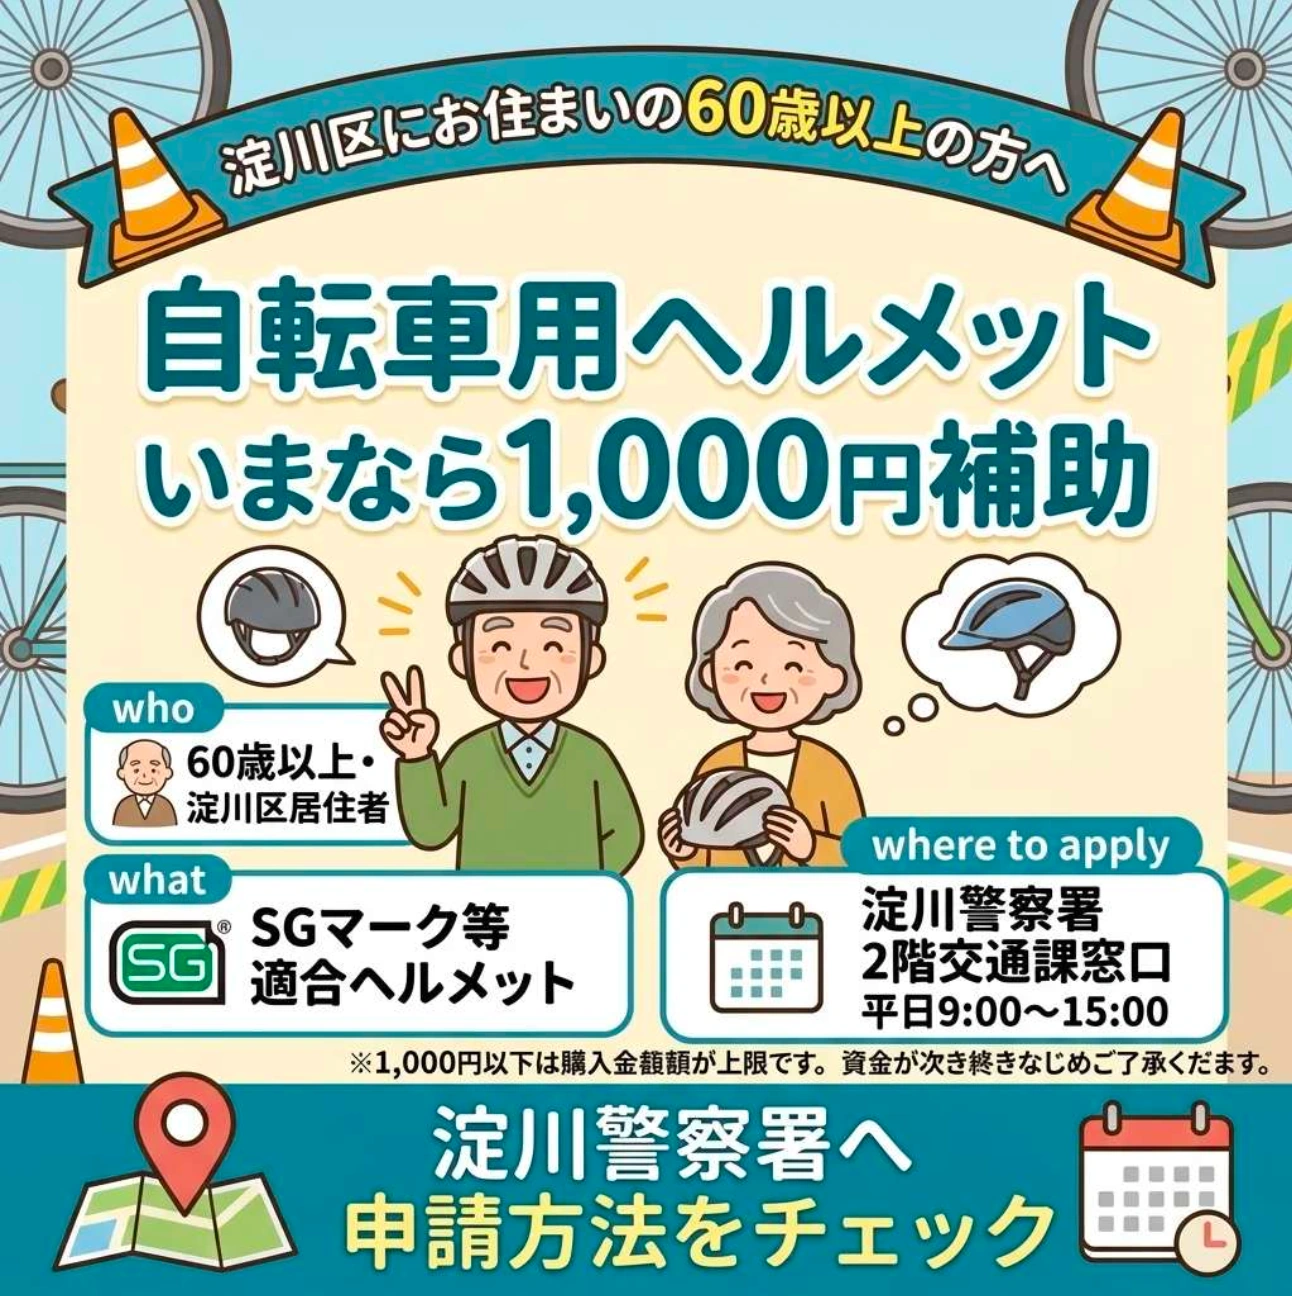
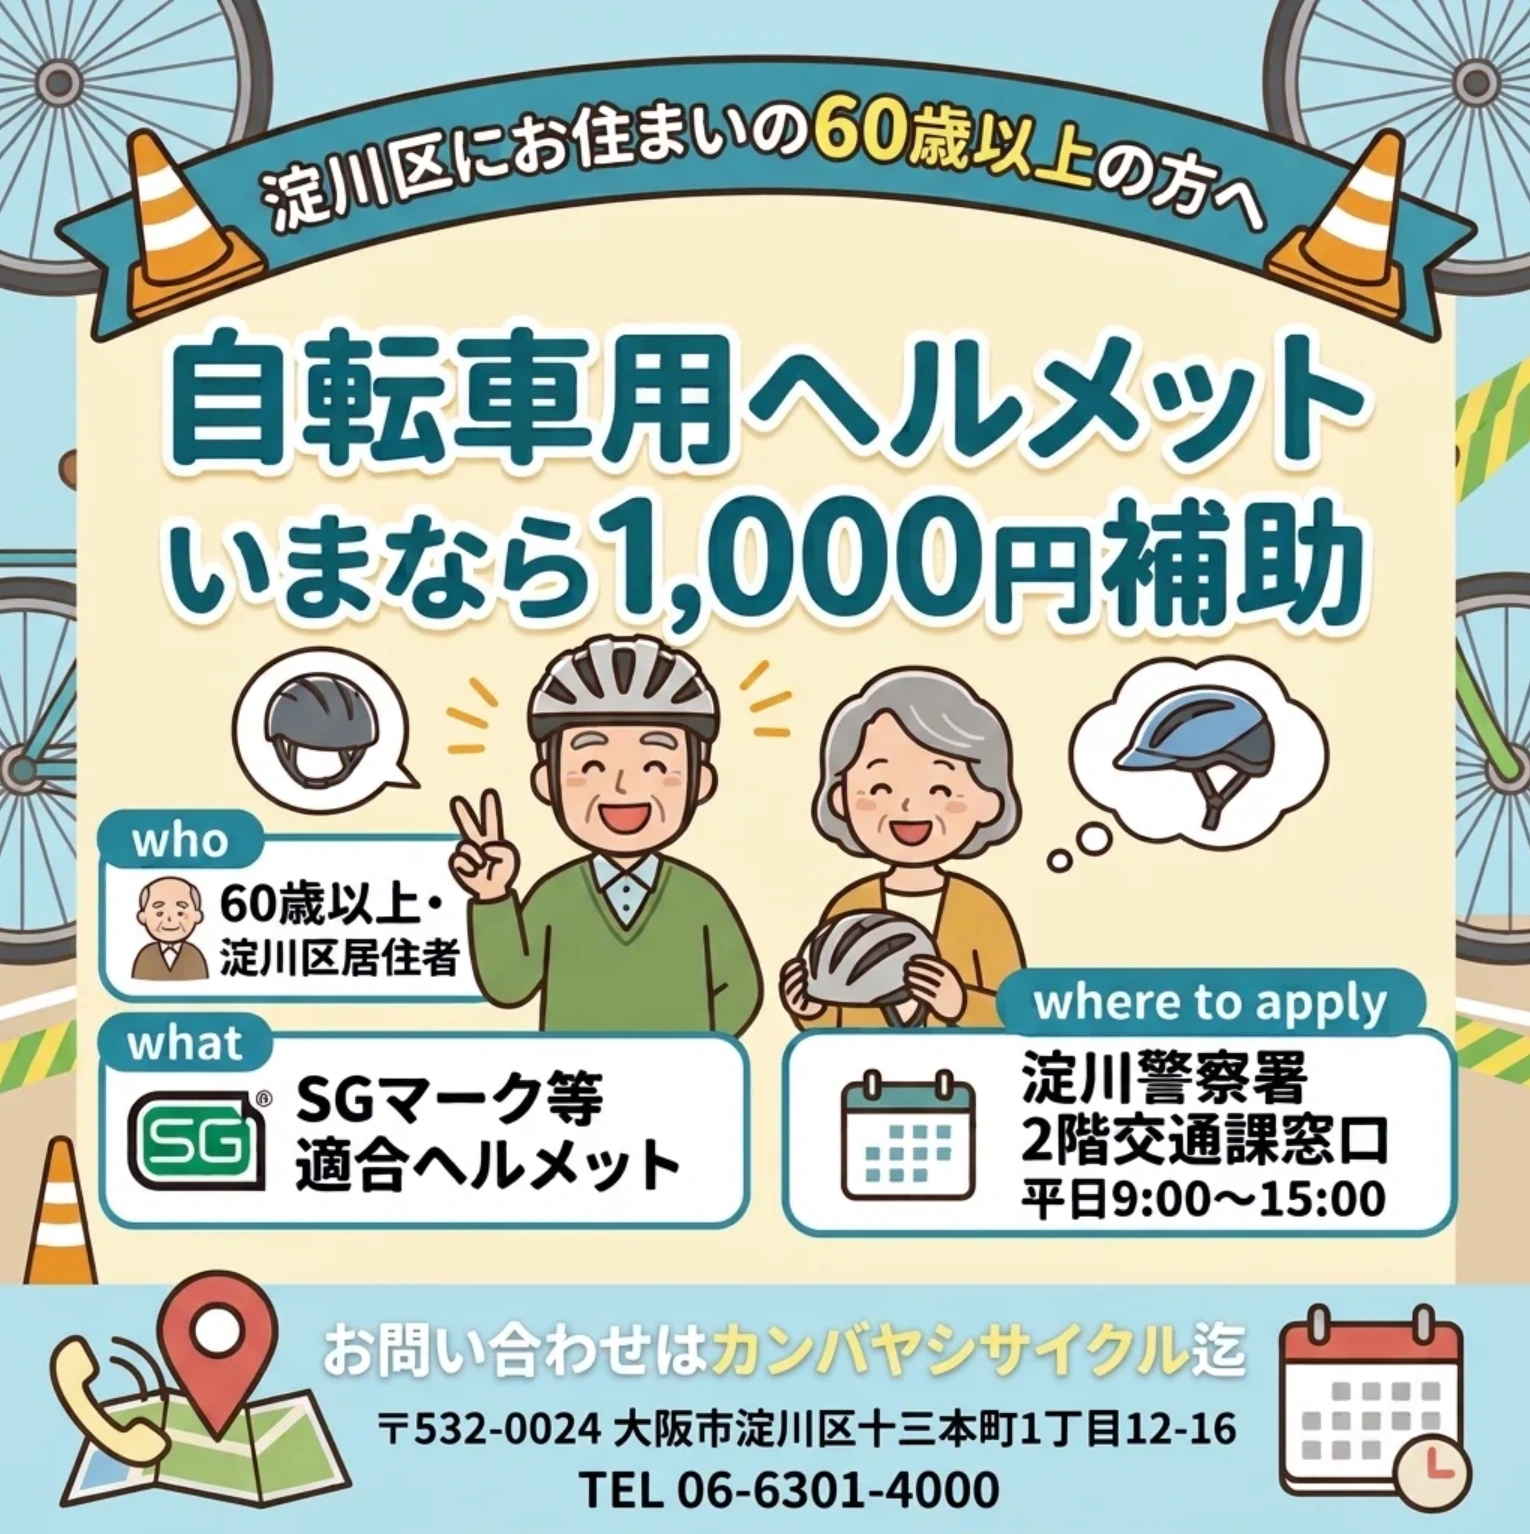
Replace helmet subsidy poster with shop contact version

diff --git a/news.html b/news.html
@@ -291,7 +291,7 @@
             <time class="news-date" datetime="2026-11-23">2026.11.23</time>
             <h2>【淀川区にお住まいの60歳以上の方へ】自転車ヘルメット補助金のお知らせ</h2>
             <figure class="article-image">
-              <img src="images/yodogawa-helmet.webp" width="1292" height="1296" alt="淀川区の自転車用ヘルメット購入補助と淀川警察署の申請窓口のご案内。">
+              <img src="images/yodogawa-helmet.webp?v=0021c963" width="1530" height="1534" alt="淀川区の自転車用ヘルメット購入補助と淀川警察署の申請窓口のご案内。">
             </figure>
             <p>淀川区にお住まいの60歳以上の方を対象に、自転車用ヘルメットの購入費用を最大1,000円補助しています！</p>
             <p>「ヘルメット、かぶったほうがいいのは分かってるけど…」と思っていた方、この機会にぜひご検討ください。安全運転は、まずヘルメットから！</p>
